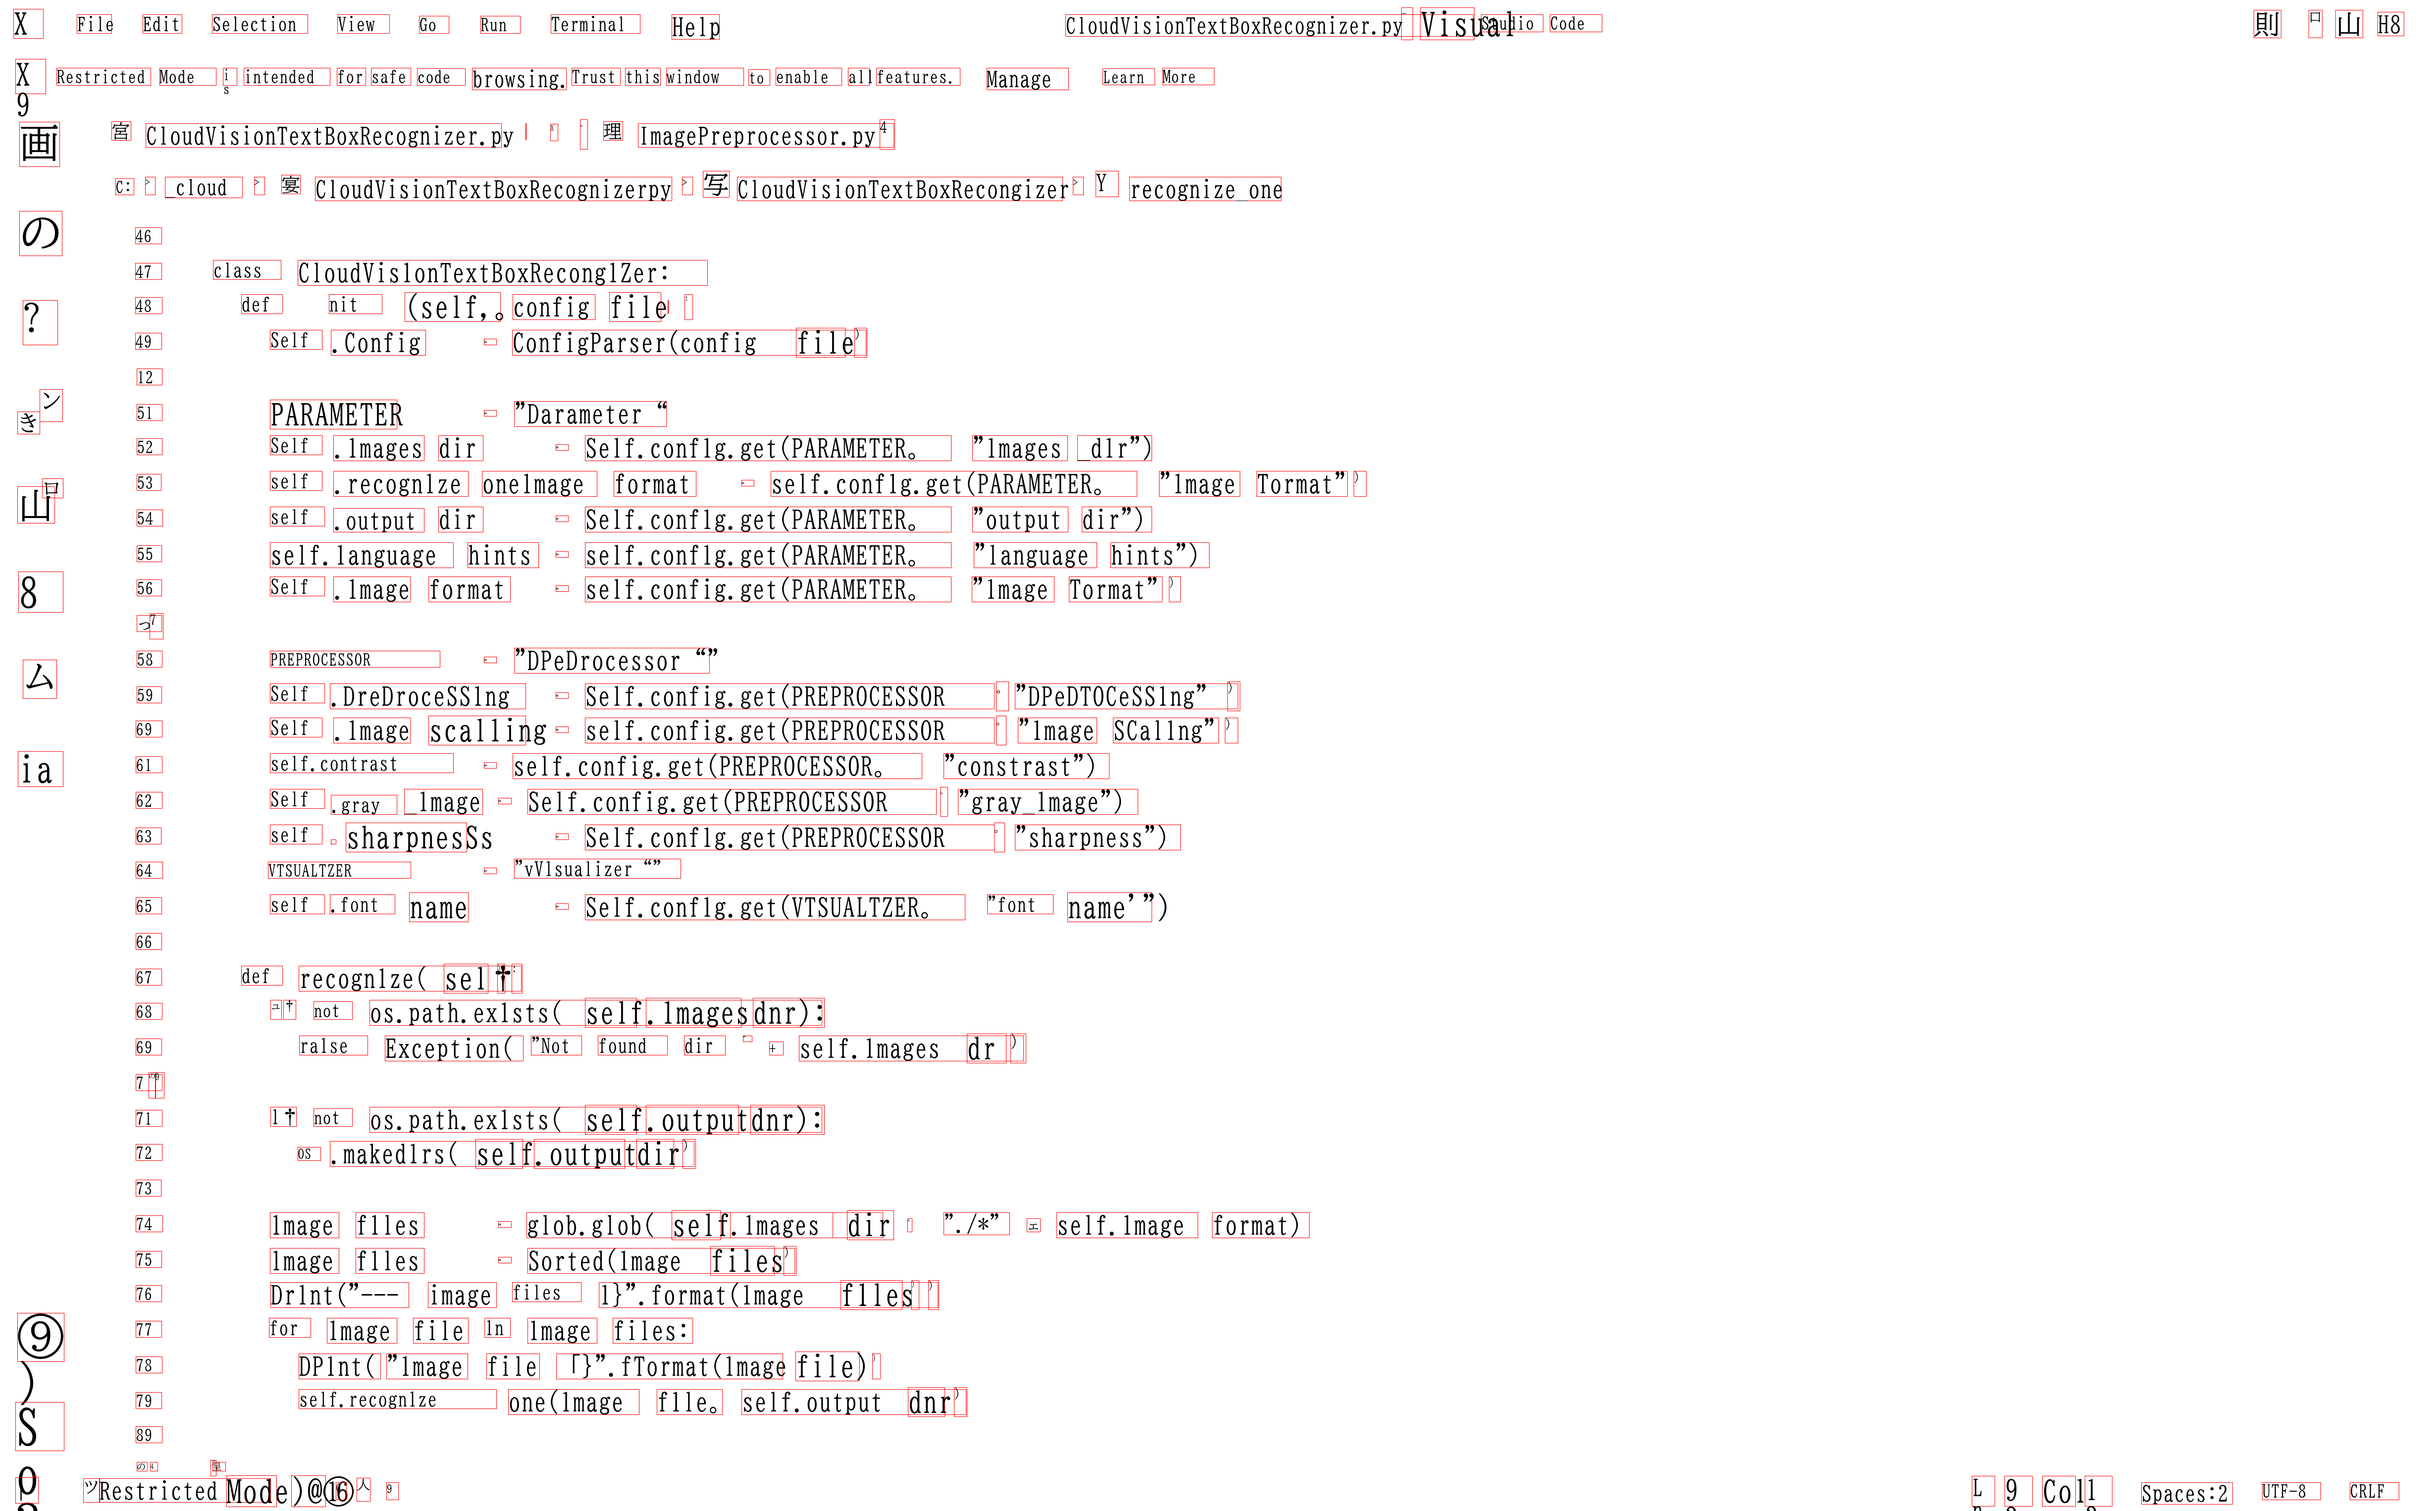
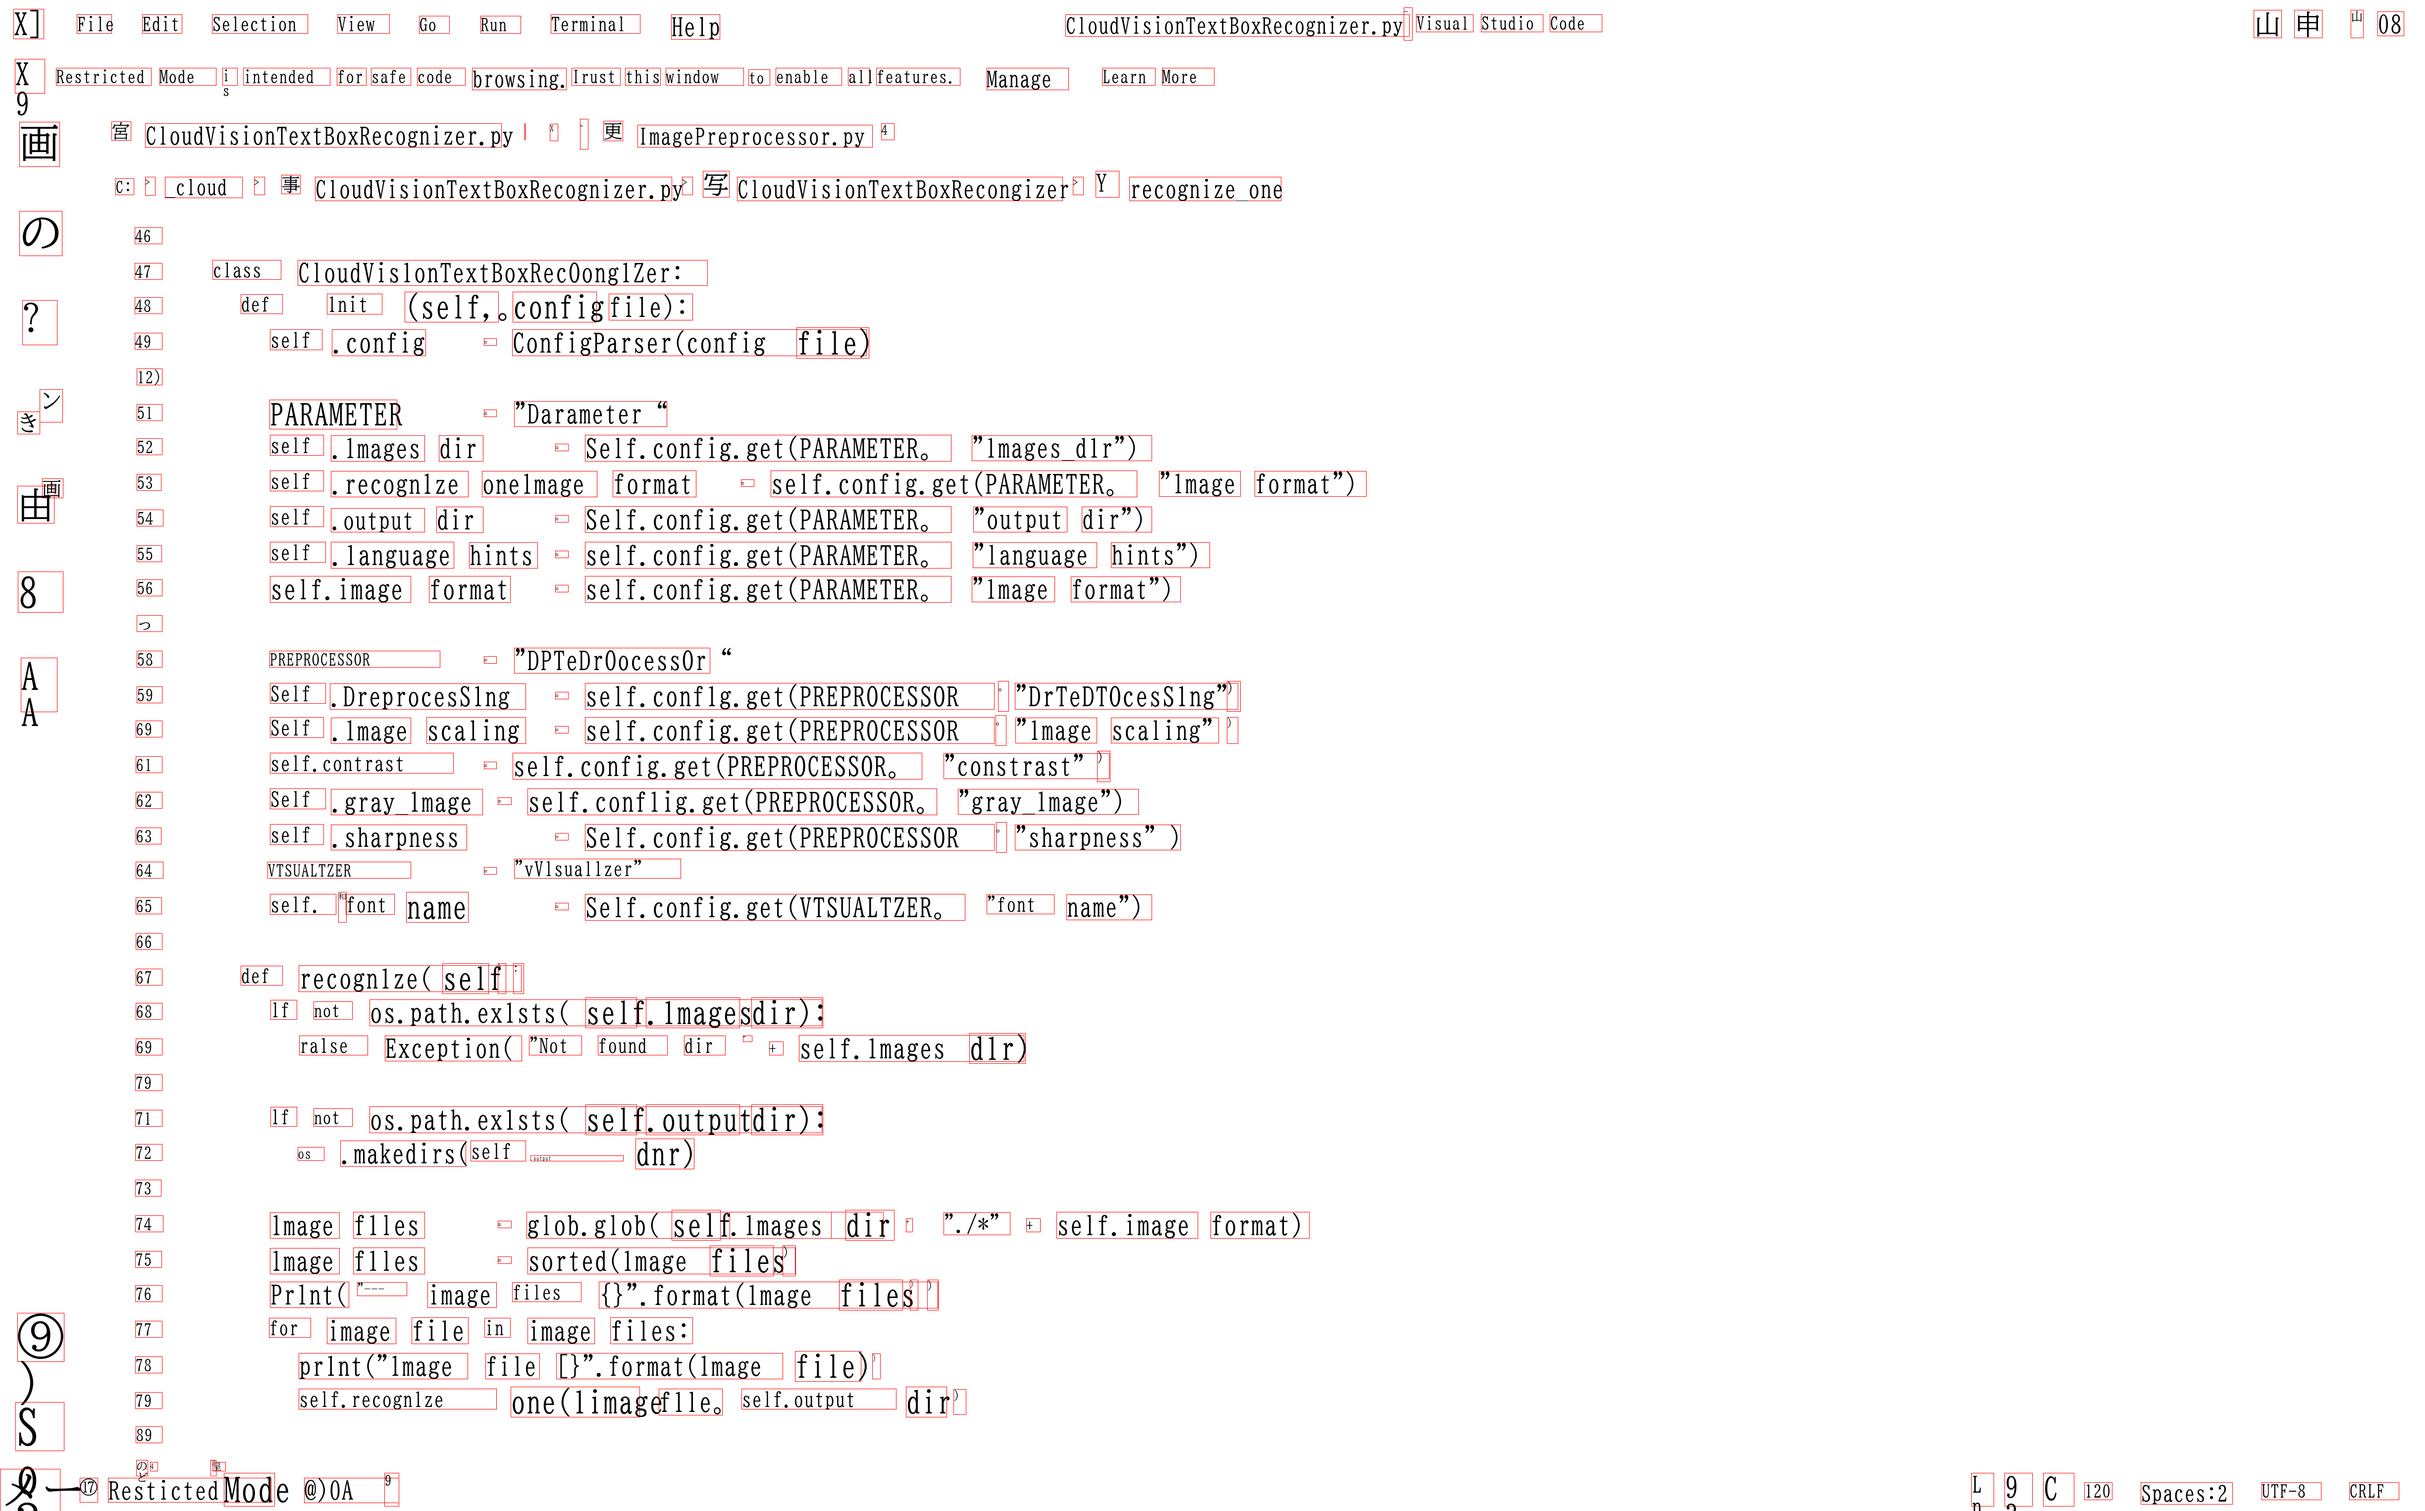
Intial commit

diff --git a/ImagePreprocessor.py b/ImagePreprocessor.py
@@ -21,9 +21,9 @@ import os
 from PIL import Image, ImageEnhance, ImageFilter
 
 class ImagePreprocessor:
-  def __init__(self, image_scaling=3.0, constrast=1.5, sharpness=4.0, gray_image=True, preprocessing=True):
+  def __init__(self, image_scaling=3.0, contrast=1.5, sharpness=4.0, gray_image=True, preprocessing=True):
     self.image_scaling = image_scaling
-    self.contrast      = constrast
+    self.contrast      = contrast
     self.gray_image    = gray_image
     self.sharpness     = sharpness #4.0 # 2.5
     self.preprocessing = preprocessing
@@ -33,7 +33,7 @@ class ImagePreprocessor:
 
     self.image_scaling = image_scaling
 
-    self.constrast     = contrast
+    self.contrast      = contrast
     self.sharpness     = sharpness
     
     if os.path.exists(image_file):

diff --git a/SurfaceTokenizer.py b/SurfaceTokenizer.py
@@ -1,8 +1,10 @@
+#
 # SurfaceTokenizer.py
+# 2023/01/10
+# to-arai
 
 from janome.tokenizer import Tokenizer
-#import matplotlib
-from matplotlib.pyplot import imshow
+
 
 class SurfaceTokenizer:
   def __init__(self):
@@ -18,4 +20,17 @@ class SurfaceTokenizer:
       word = word.replace("\n", "")
       if len(word)>0:
         words.append(word)
+    return words
+
+  # 2023/01/10
+  def get_nouns(self, sentence):
+    if type(sentence) == list:
+      sentence = ' '.join(sentence)
+    words = []
+    for token in self.tokenizer.tokenize(sentence):
+      part_of_speech = token.part_of_speech.split(',')[0]
+      if part_of_speech == u'名詞':
+        word = token.surface
+        if len(word)>0:
+          words.append(word)
     return words

diff --git a/TesseractTextBoxRecognizer.py b/TesseractTextBoxRecognizer.py
@@ -15,7 +15,7 @@
 
 # TesseractRecognizer.py
 # 2022/10/20
-# toshiyuki.arai@xenera.jp
+
 # This works on Windows11
 
 import os
@@ -48,7 +48,7 @@ class TesseractTextBoxRecognizer:
     PREPROCESSOR        = "preprocessor"
     self.preprocessing  = self.config.get(PREPROCESSOR, "preprocessing") 
     self.image_scaling  = self.config.get(PREPROCESSOR, "image_scaling")
-    self.contrast       = self.config.get(PREPROCESSOR, "constrast")
+    self.contrast       = self.config.get(PREPROCESSOR, "contrast")
     self.gray_image     = self.config.get(PREPROCESSOR, "gray_image")
     self.sharpness      = self.config.get(PREPROCESSOR, "sharpness")
 

diff --git a/RecognizedObjectsVisualizer.py b/RecognizedObjectsVisualizer.py
@@ -40,7 +40,8 @@ class RecognizedObjectsVisualizer:
       if height < width:
         fsize = height
         direction = TEXT_HORIZONTAL
-      font = ImageFont.truetype(self.font_name, fsize) 
+      fsize = int(fsize)
+      font  = ImageFont.truetype(self.font_name, fsize) 
     except IOError:
       print("Failed to font_name {} size {} ".format(self.font_name, fsize))
      
@@ -80,7 +81,7 @@ class RecognizedObjectsVisualizer:
         y = min_y
         for ch in text:
           draw.text((min_x, y), ch, fill="black", font=font)
-          print(ch)
+          #print(ch)
           y += w
 
     basename = os.path.basename(image_file)
